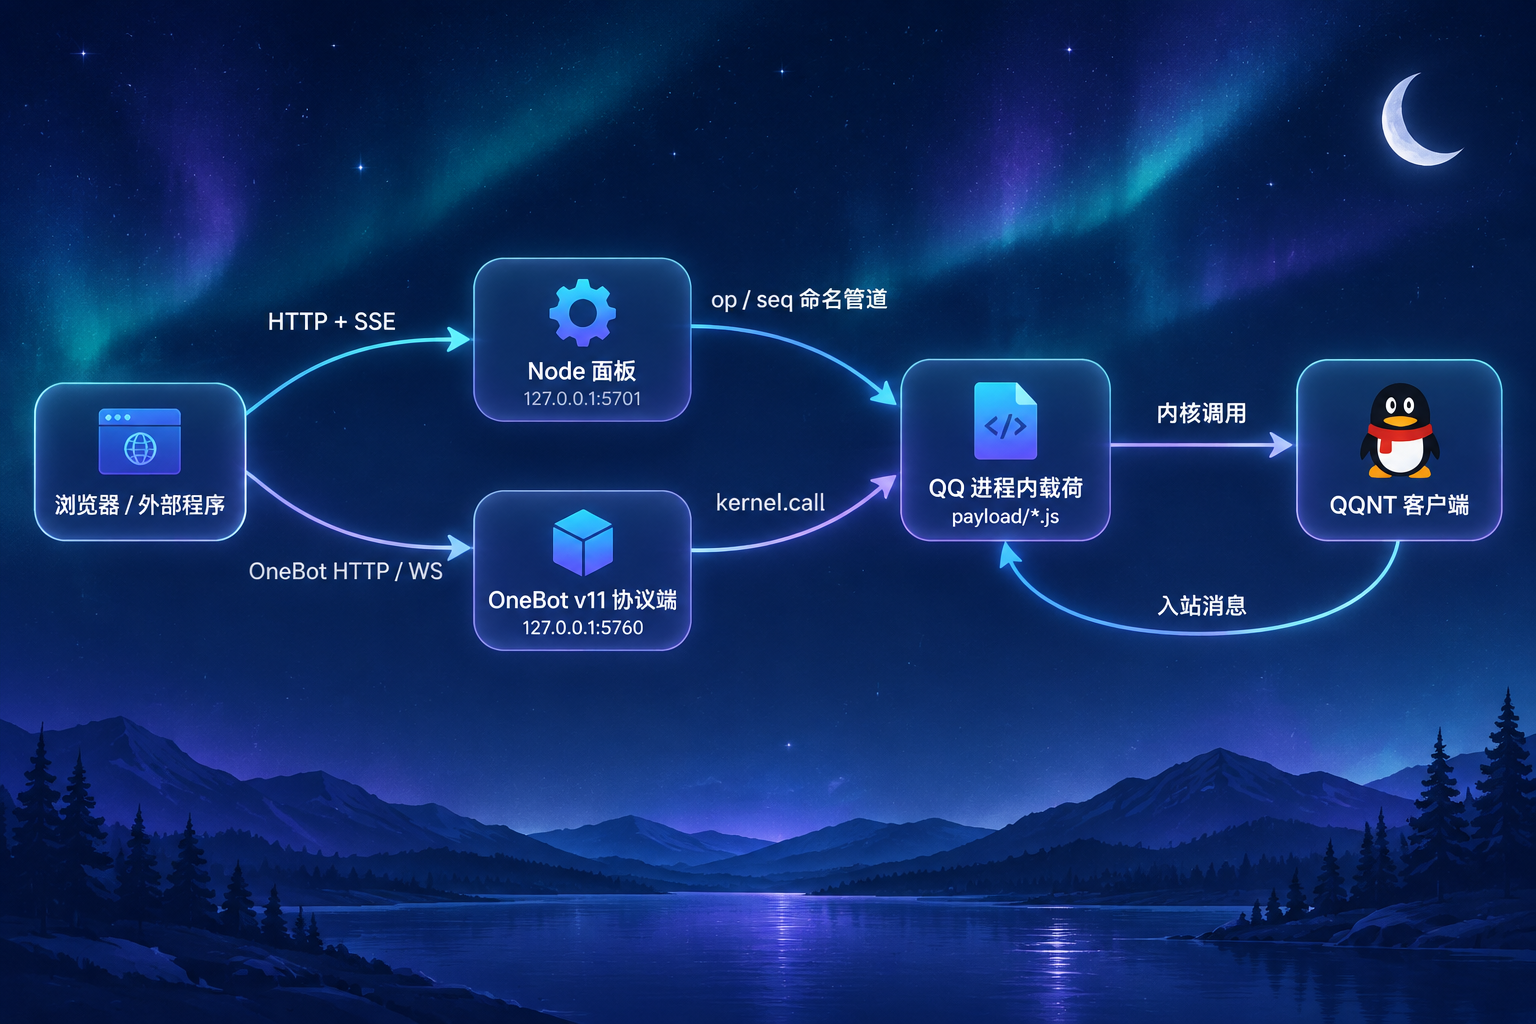
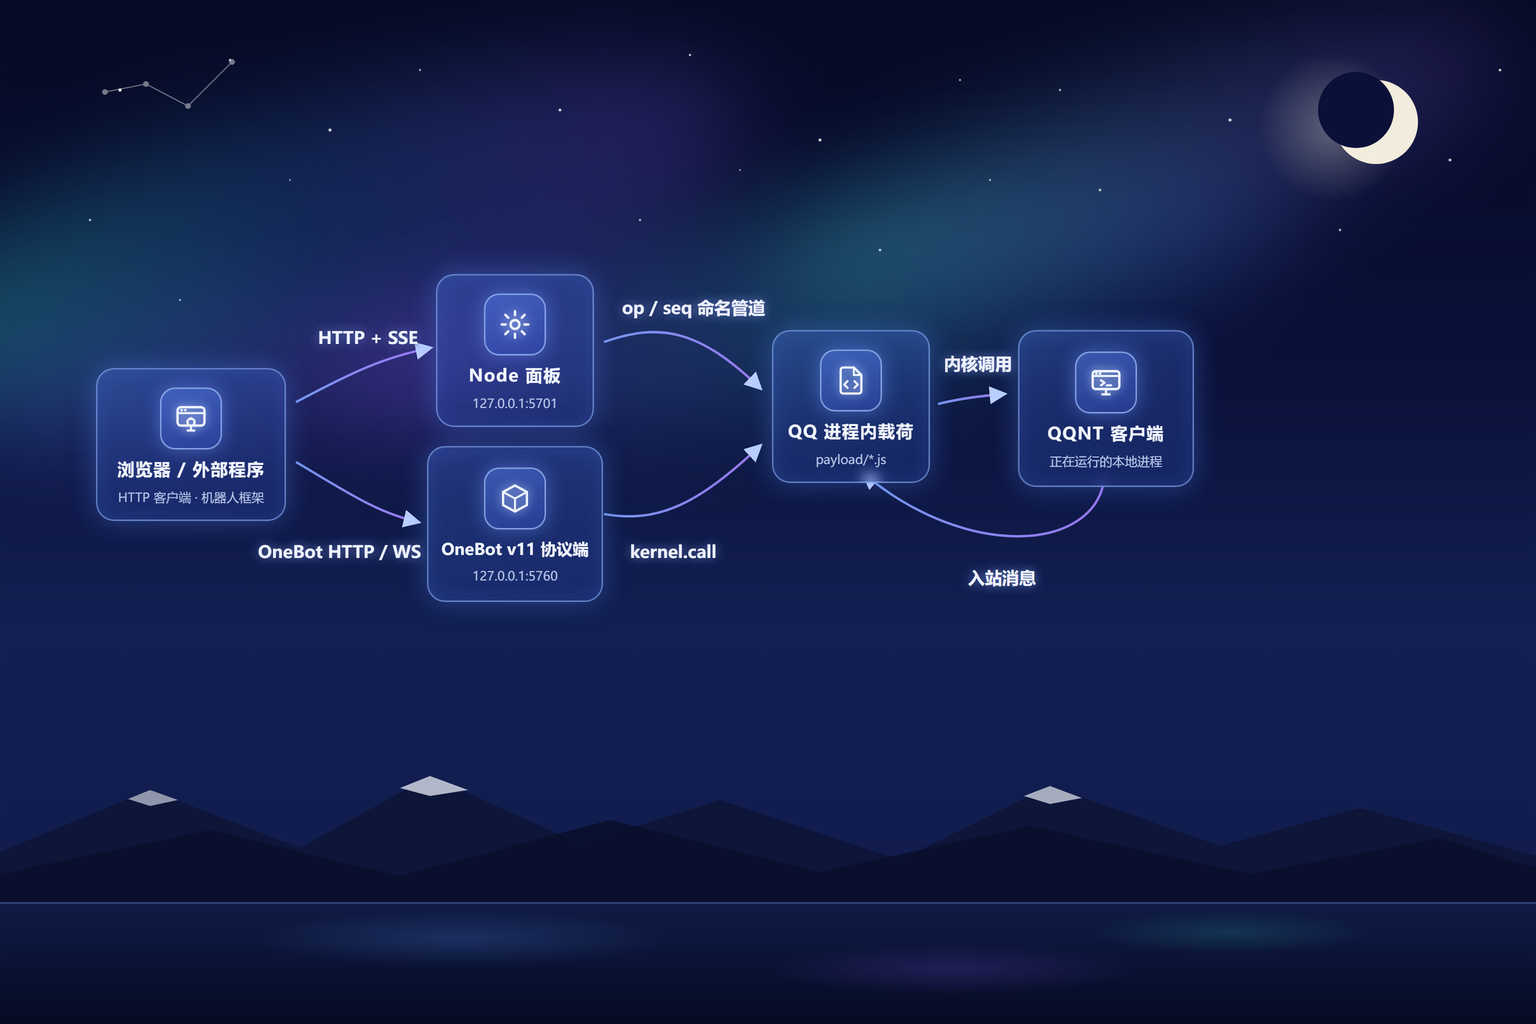
docs: 更新架构示意图与文案

diff --git a/payload/ops.js b/payload/ops.js
@@ -952,7 +952,7 @@
    * send hook 绕过 coerce 用 QQ 自己的 resize 直写原始字节；recv hook 在回执对象上
    * 补一个 napi_create_buffer_copy 的 rspbuffer（字节无损）。hook 本体是
    * 14 字节 detour + trampoline，无第三方二进制。
-   * WRAPPER_OFFSETS 是各版本 wrapper.node 的偏移表（send/recv 函数偏移 + resize 偏移），
+   * WRAPPER_OFFSETS 是各版本 wrapper.node 上三个函数的实测位置（send/recv/resize），
    * 版本不匹配时 initHook 直接拒绝。 */
   var WRAPPER_OFFSETS = {
     '9.9.36-53644-x64': { send: 'C3EE2F', recv: '24A6355', resize: '77DE00' },

diff --git a/payload/native/pkt.c b/payload/native/pkt.c
@@ -7,7 +7,7 @@
  *     字符串再入库，二进制 (OIDB envelope) 含非法 UTF-8 序列时被 V8 替换成 U+FFFD，
  *     服务端解不开 → 145 "[oidb] invalid pkg and decode req failed"。
  *     这就是 JS 层 sendSsoCmdReqByContend 必挂 145 的根因。
- *   修法：Buffer 参数时绕过 coerce，用 QQ 自己的 resize(RVA 版本表) 分配
+ *   修法：Buffer 参数时绕过 coerce，用 QQ 自己的 resize（按版本实测）分配
  *     QQ 自定义字符串 (24B: byte0=flag, bit0=长标志; 短串 data=+1 len=flag>>1,
  *     长串 len=+8 ptr=+0x10)，memcpy 原始字节，长度语义与 QQ 完全一致。
  *     非 Buffer 参数一律回落原函数（trampoline），除 Buffer 外行为零变化。
@@ -24,7 +24,7 @@
  *     只搬移位置无关的序言指令（push/sub rsp/lea rsp 相对寻址），遇到
  *     rip 相对寻址或未知指令直接拒绝安装（宁可失败不猜）。
  *
- *   版本 RVA（wrapper.node，逐版本逆向得出）：
+ *   版本 RVA（wrapper.node，按版本实测定位）：
  *     9.9.36-53644: send=C3EE2F recv=24A6355 resize=77DE00
  *     9.9.37-54395: send=C5927F recv=24CC2B5 resize=78F800（字节级模式匹配）
  *
